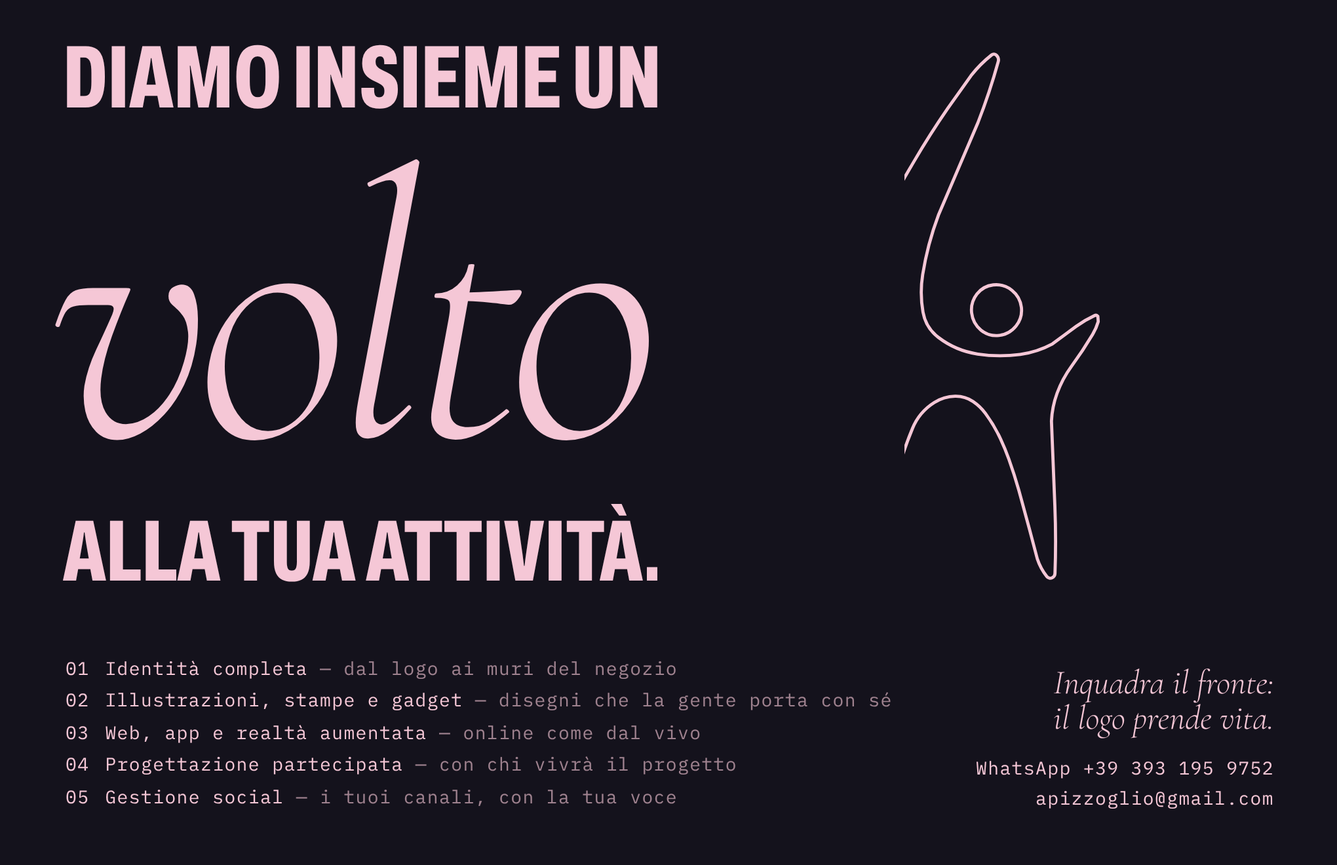
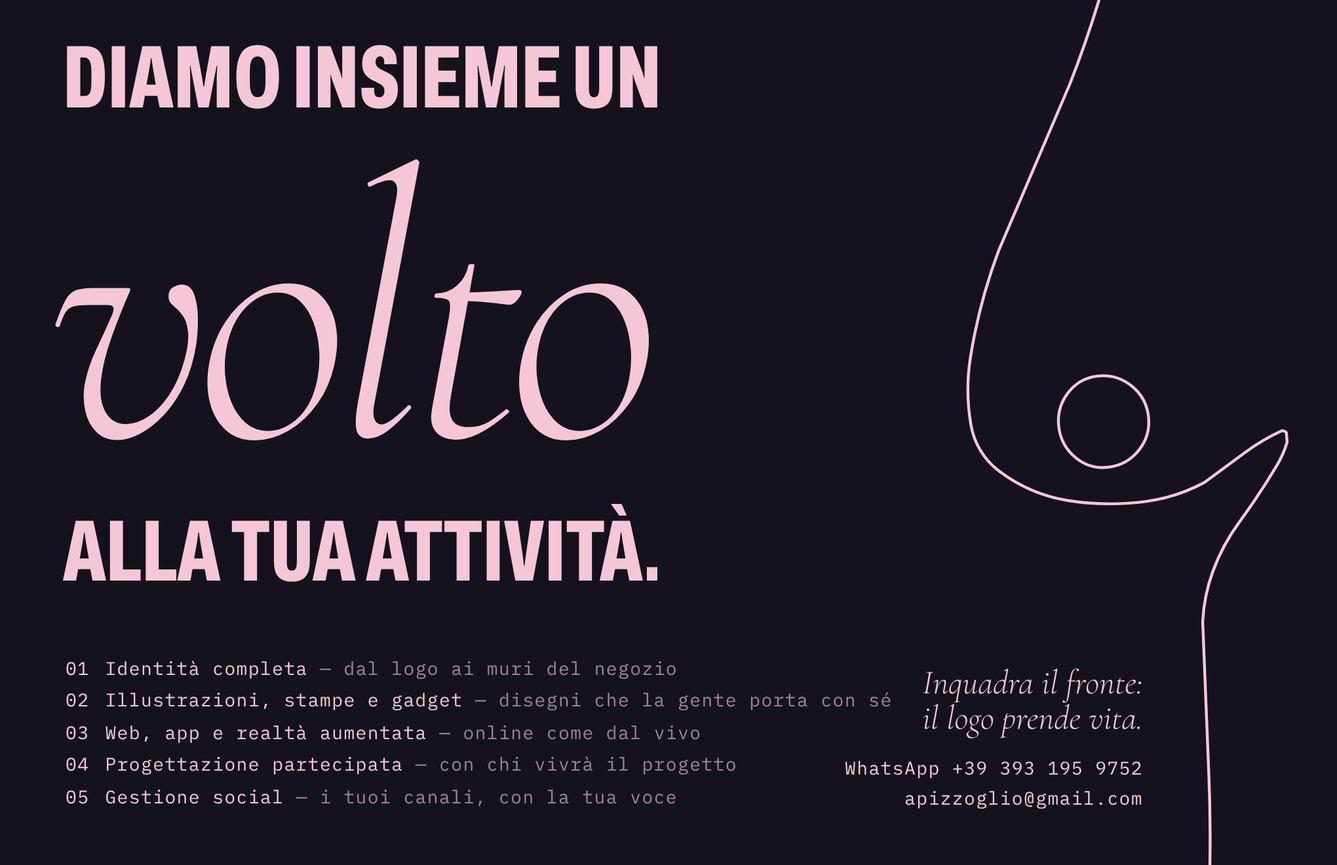
Biglietto, retro: la i aperta e ingrandita, un lato per punta: una linea entra dall'alto, gira intorno al pallino e al braccio ed esce in basso lungo la gamba
Claude-Session: https://claude.ai/code/session_017BM5XjeHCbJ6zegj574eXv

diff --git a/ar-print/biglietto-retro.html b/ar-print/biglietto-retro.html
@@ -15,9 +15,8 @@
   .m { font-family: "IBM Plex Mono", monospace; font-size: 14px; letter-spacing: .05em; line-height: 1.6; }
   .u { text-transform: uppercase; letter-spacing: .2em; font-size: 12px; }
 
-  /* la figura intera, dalla punta della i in alto fino alla punta della gamba: un ritaglio del logo (viewBox) */
-  .det { position: absolute; left: 690px; top: 34px; width: 156px; height: 412px; }
-  .det path { fill: none; stroke: #F5C7D6; stroke-width: 2; stroke-linejoin: round; }
+  .det { position: absolute; left: 0; top: 0; width: 1020px; height: 660px; overflow: hidden; }
+  .det path { fill: none; stroke: #F5C7D6; stroke-width: 1.018; stroke-linejoin: round; stroke-linecap: round; }
   /* il blocco del claim e' alto quanto la figura: la prima riga parte dalla punta della i, l'ultima finisce sulla punta della gamba */
   .claim { position: absolute; left: 48px; top: 34px; height: 412px; display: inline-flex; flex-direction: column; justify-content: space-between; align-items: flex-start; }
   .claim .a { display: block; font-size: 48px; line-height: .74; white-space: nowrap; letter-spacing: 0; }
@@ -26,12 +25,12 @@
   .servizi li { line-height: 1.75; }
   .servizi b { font-weight: 400; margin-right: 12px; }
   .servizi i { font-style: normal; opacity: .62; }
-  .contatti { position: absolute; right: 48px; bottom: 40px; text-align: right; }
+  .contatti { position: absolute; right: 148px; bottom: 40px; text-align: right; }  /* a sinistra della gamba */
   .contatti .c { font-size: 26px; line-height: 1.05; margin-bottom: 14px; }
 
 </style></head>
 <body><div class="card">
-  <svg class="det" viewBox="787 82 130 344" preserveAspectRatio="xMidYMid meet"><path d="M701.23,268.10 A1.96,1.96 0 0 0 700.76,269.62 A632.43,632.43 0 0 0 704.75,297.87 L710.61,332.14 A397.71,397.71 0 0 1 715.07,380.84 A1643.37,1643.37 0 0 1 715.02,480.25 L715.28,506.37 A84.15,84.15 0 0 1 712.88,524.02 A14.16,14.16 0 0 1 709.36,530.42 A4.43,4.43 0 0 1 706.14,531.79 A3.18,3.18 0 0 1 703.52,530.40 L700.27,520.08 L698.40,499.78 L693.93,435.33 L689.78,397.58 A134.04,134.04 0 0 0 686.16,381.05 A4.42,4.42 0 0 0 684.34,378.58 A2.07,2.07 0 0 0 681.58,379.03 A82.86,82.86 0 0 0 672.19,394.07 L661.85,416.68 A56.20,56.20 0 0 1 639.60,438.10 A82.70,82.70 0 0 1 603.38,447.72 A101.61,101.61 0 0 1 574.29,444.40 A143.16,143.16 0 0 1 542.01,431.51 A153.57,153.57 0 0 1 514.39,412.14 A126.16,126.16 0 0 1 494.06,389.31 L482.39,365.51 A264.79,264.79 0 0 0 473.63,347.94 A7.81,7.81 0 0 0 471.41,345.40 A10.92,10.92 0 0 0 469.06,350.11 A55.58,55.58 0 0 0 467.74,361.92 L466.79,380.01 A37.07,37.07 0 0 1 464.30,386.47 A188.62,188.62 0 0 1 456.77,400.14 A143.49,143.49 0 0 0 449.73,413.27 A31.14,31.14 0 0 0 447.49,419.83 A12.49,12.49 0 0 0 447.71,426.09 A254.86,254.86 0 0 0 457.24,452.72 A338.83,338.83 0 0 0 469.01,477.73 A28.15,28.15 0 0 0 473.66,484.20 A13.89,13.89 0 0 0 477.80,487.16 A65.09,65.09 0 0 0 488.14,490.96 A50.41,50.41 0 0 1 497.79,494.70 A10.21,10.21 0 0 1 501.34,497.71 A32.59,32.59 0 0 1 505.21,504.50 A655.02,655.02 0 0 1 517.93,537.14 A368.60,368.60 0 0 1 528.27,570.98 A3.32,3.32 0 0 1 527.34,574.21 A5.03,5.03 0 0 1 521.81,575.15 A94.99,94.99 0 0 1 501.04,562.35 L476.46,539.35 A184.77,184.77 0 0 1 454.38,508.51 A454.13,454.13 0 0 1 428.34,455.05 L410.19,410.80 A395.64,395.64 0 0 0 398.39,386.24 A236.13,236.13 0 0 0 387.81,368.05 A47.19,47.19 0 0 0 372.64,353.25 A47.00,47.00 0 0 0 352.56,346.60 A34.79,34.79 0 0 0 342.06,347.22 A25.67,25.67 0 0 0 333.70,350.63 A24.91,24.91 0 0 0 326.52,357.54 A36.75,36.75 0 0 0 321.38,368.50 A8.04,8.04 0 0 0 321.33,372.65 A1180.09,1180.09 0 0 0 334.80,421.10 A1099.32,1099.32 0 0 0 350.47,469.09 A11.07,11.07 0 0 0 353.20,473.36 L379.12,492.42 A137.79,137.79 0 0 1 397.16,508.57 A4.08,4.08 0 0 1 398.06,512.64 A4.63,4.63 0 0 1 395.23,515.55 A69.72,69.72 0 0 1 379.89,519.16 A127.87,127.87 0 0 0 362.20,522.53 A10.03,10.03 0 0 0 357.81,525.01 L341.54,547.28 A84.48,84.48 0 0 1 328.03,561.51 A2.51,2.51 0 0 1 324.66,561.36 A8.98,8.98 0 0 1 322.20,556.77 A245.02,245.02 0 0 1 318.34,529.85 L314.81,494.18 A87.18,87.18 0 0 0 303.41,467.57 A250.41,250.41 0 0 0 272.96,429.09 A218.57,218.57 0 0 0 234.12,397.18 A63.58,63.58 0 0 0 208.73,387.69 A10.06,10.06 0 0 0 200.55,390.19 A55.41,55.41 0 0 0 188.35,406.12 L175.32,434.83 A673.90,673.90 0 0 1 156.01,465.31 A237.06,237.06 0 0 1 143.30,482.51 A178.86,178.86 0 0 1 120.52,505.86 A100.68,100.68 0 0 1 100.11,519.37 A59.49,59.49 0 0 1 43.71,517.60 A66.85,66.85 0 0 1 10.86,467.61 A81.53,81.53 0 0 1 32.51,402.09 A146.20,146.20 0 0 1 113.89,358.34 L157.14,352.66 A64.98,64.98 0 0 0 179.62,342.98 A34.48,34.48 0 0 0 191.29,329.50 A94.83,94.83 0 0 0 200.43,296.45 A247.40,247.40 0 0 0 199.10,241.09 A374.25,374.25 0 0 0 191.71,202.40 A643.86,643.86 0 0 0 177.35,152.77 L163.94,114.00 A538.04,538.04 0 0 1 154.25,81.62 A3.51,3.51 0 0 1 154.63,78.92 A1.21,1.21 0 0 1 155.76,78.33 A668.24,668.24 0 0 1 185.56,81.30 A548.85,548.85 0 0 0 218.08,84.29 A28.76,28.76 0 0 0 225.54,83.78 A51.37,51.37 0 0 0 241.74,77.51 A72.60,72.60 0 0 0 257.78,64.50 L281.03,33.99 A25.60,25.60 0 0 1 286.83,28.40 A3.01,3.01 0 0 1 289.57,28.04 A3.03,3.03 0 0 1 291.58,30.83 A537.54,537.54 0 0 1 290.62,76.59 L288.28,111.78 A109.60,109.60 0 0 0 289.05,128.24 A35.74,35.74 0 0 0 291.41,137.34 A26.29,26.29 0 0 0 297.47,146.33 A33.04,33.04 0 0 0 307.60,153.04 A54.36,54.36 0 0 0 320.63,156.71 A168.88,168.88 0 0 0 344.43,158.61 L416.61,160.28 A443.70,443.70 0 0 0 464.73,157.63 A90.88,90.88 0 0 0 485.97,152.67 A26.94,26.94 0 0 0 492.75,149.03 A40.65,40.65 0 0 0 499.64,142.57 L509.62,128.29 A98.20,98.20 0 0 1 516.03,119.69 A34.65,34.65 0 0 1 520.54,115.20 A28.36,28.36 0 0 1 528.18,110.68 A29.73,29.73 0 0 1 537.04,108.66 A24.81,24.81 0 0 1 546.84,109.94 A35.18,35.18 0 0 1 557.18,115.58 A50.41,50.41 0 0 1 563.89,121.94 A110.12,110.12 0 0 1 572.24,132.74 L583.06,149.89 A34.29,34.29 0 0 0 588.47,156.27 A2.16,2.16 0 0 0 590.51,156.77 A8.20,8.20 0 0 0 594.63,154.12 A133.66,133.66 0 0 0 606.14,138.05 L627.11,102.02 A332.57,332.57 0 0 1 641.61,79.87 A95.83,95.83 0 0 1 650.69,68.95 A42.66,42.66 0 0 1 664.86,59.25 A12.64,12.64 0 0 1 674.20,59.07 A9.75,9.75 0 0 1 679.57,64.00 A49.68,49.68 0 0 1 684.10,79.81 L685.60,105.05 A291.81,291.81 0 0 0 689.03,124.94 A867.69,867.69 0 0 0 696.82,158.85 L709.15,212.32 L713.77,234.08 A40.67,40.67 0 0 0 719.98,246.03 A14.06,14.06 0 0 0 726.33,250.76 A10.90,10.90 0 0 0 734.29,250.60 A22.79,22.79 0 0 0 743.46,243.65 L753.94,225.63 A2213.64,2213.64 0 0 1 793.01,156.35 A557.58,557.58 0 0 1 814.46,122.68 L829.32,101.75 A78.17,78.17 0 0 1 842.32,88.68 A2.43,2.43 0 0 1 845.56,88.88 A4.19,4.19 0 0 1 846.61,92.94 A397.87,397.87 0 0 1 833.72,131.68 L808.52,190.67 A193.84,193.84 0 0 0 798.49,228.56 A72.37,72.37 0 0 0 798.70,252.51 A25.81,25.81 0 0 0 808.43,268.51 A54.76,54.76 0 0 0 833.54,279.17 A95.45,95.45 0 0 0 860.63,279.37 A60.43,60.43 0 0 0 881.13,272.70 L896.27,261.52 A70.24,70.24 0 0 1 908.03,254.62 A1.67,1.67 0 0 1 910.07,255.13 L910.32,258.47 A35.85,35.85 0 0 1 906.70,266.71 A259.81,259.81 0 0 1 893.31,286.90 A69.32,69.32 0 0 0 884.11,304.09 A60.26,60.26 0 0 0 880.52,321.90 L882.69,375.85 A556.83,556.83 0 0 1 882.77,418.93 A3.20,3.20 0 0 1 881.00,421.67 A2.80,2.80 0 0 1 877.56,420.89 A36.89,36.89 0 0 1 871.50,409.61 L866.60,391.10 L859.71,365.80 A322.56,322.56 0 0 0 853.44,346.25 A149.95,149.95 0 0 0 848.13,333.30 A95.23,95.23 0 0 0 838.54,317.11 A32.71,32.71 0 0 0 830.60,309.45 A19.54,19.54 0 0 0 819.11,306.07 A26.02,26.02 0 0 0 805.88,310.07 A35.47,35.47 0 0 0 792.01,326.54 A261.41,261.41 0 0 0 775.88,382.72 L769.85,430.42 L766.57,467.03 L765.20,507.64 L762.78,527.42 A9.74,9.74 0 0 1 759.79,532.25 A1.98,1.98 0 0 1 757.23,532.29 A11.70,11.70 0 0 1 753.37,526.35 A77.30,77.30 0 0 1 750.65,508.33 L750.67,481.75 A1088.74,1088.74 0 0 1 747.52,389.41 A548.83,548.83 0 0 1 751.99,323.97 L769.37,275.73 A1.89,1.89 0 0 0 767.51,274.72 A6.55,6.55 0 0 0 763.87,276.27 L754.98,286.04 A108.04,108.04 0 0 1 739.32,301.08 A13.30,13.30 0 0 1 732.23,303.86 A16.96,16.96 0 0 1 725.49,303.07 A13.70,13.70 0 0 1 720.27,299.91 A18.29,18.29 0 0 1 717.32,296.21 A53.00,53.00 0 0 1 713.69,289.01 L708.63,276.60 A26.93,26.93 0 0 0 704.77,270.80 A11.01,11.01 0 0 0 701.23,268.10Z M294.05,390.56 L296.00,384.01 L294.08,391.25 L294.54,389.82 A6.31,6.31 0 0 0 294.51,386.33 A35.77,35.77 0 0 0 291.21,378.68 L284.60,368.33 A250.86,250.86 0 0 1 266.53,330.09 A208.72,208.72 0 0 1 256.44,292.86 A198.78,198.78 0 0 1 253.52,262.07 A540.05,540.05 0 0 1 255.08,211.11 L258.94,173.51 A151.53,151.53 0 0 0 258.82,150.66 A61.69,61.69 0 0 0 255.93,136.37 A28.14,28.14 0 0 0 247.29,123.61 A11.49,11.49 0 0 0 237.76,121.12 A16.40,16.40 0 0 0 228.54,126.35 A35.50,35.50 0 0 0 221.01,140.01 A97.53,97.53 0 0 0 217.27,172.23 A431.63,431.63 0 0 0 226.17,239.87 A635.33,635.33 0 0 0 241.25,297.34 A339.91,339.91 0 0 0 256.86,337.90 L273.87,367.38 A184.55,184.55 0 0 0 289.58,388.24 A6.86,6.86 0 0 0 294.05,390.56Z M553.87,268.85 A27.11,27.11 0 0 0 565.84,265.69 A109.33,109.33 0 0 0 586.33,251.59 A132.04,132.04 0 0 1 607.36,236.63 A28.88,28.88 0 0 1 618.85,232.94 A24.60,24.60 0 0 1 629.23,234.13 A114.20,114.20 0 0 1 649.72,243.46 A165.62,165.62 0 0 0 667.17,252.26 A1.65,1.65 0 0 0 669.07,251.82 A5.86,5.86 0 0 0 670.49,248.26 A105.05,105.05 0 0 0 669.99,232.06 L663.75,197.40 A332.11,332.11 0 0 0 658.44,177.72 A146.84,146.84 0 0 0 653.91,164.94 A54.11,54.11 0 0 0 647.08,152.87 A2.88,2.88 0 0 0 644.06,151.81 A11.59,11.59 0 0 0 637.73,156.01 A60.08,60.08 0 0 0 629.33,171.13 L621.32,195.97 L611.62,218.96 A71.27,71.27 0 0 1 604.40,230.17 A21.20,21.20 0 0 1 599.00,235.04 A12.21,12.21 0 0 1 593.14,236.89 A11.63,11.63 0 0 1 587.28,235.65 A21.79,21.79 0 0 1 579.56,229.09 A136.55,136.55 0 0 1 566.55,207.35 L549.46,167.86 A75.83,75.83 0 0 0 539.65,151.82 A2.96,2.96 0 0 0 536.03,151.01 A8.81,8.81 0 0 0 531.77,155.59 A74.50,74.50 0 0 0 527.02,173.14 A143.80,143.80 0 0 0 525.60,191.39 A209.37,209.37 0 0 0 526.44,213.46 A181.35,181.35 0 0 0 530.11,236.76 A84.10,84.10 0 0 0 535.12,252.02 A39.47,39.47 0 0 0 544.91,265.56 A12.87,12.87 0 0 0 553.87,268.85Z M361.27,309.10 L382.44,317.41 A30.51,30.51 0 0 1 388.74,321.66 A219.87,219.87 0 0 1 403.45,335.78 L411.63,348.95 A42.00,42.00 0 0 0 418.61,357.39 A2.95,2.95 0 0 0 421.44,358.07 A4.53,4.53 0 0 0 424.70,354.18 A135.39,135.39 0 0 0 424.73,326.44 L419.06,290.04 A1141.83,1141.83 0 0 0 409.83,251.18 A375.08,375.08 0 0 0 403.48,229.18 A230.88,230.88 0 0 0 386.52,189.63 A38.09,38.09 0 0 0 374.86,176.60 A25.50,25.50 0 0 0 365.39,172.53 A91.52,91.52 0 0 0 345.95,170.67 A131.53,131.53 0 0 0 328.64,172.02 A73.01,73.01 0 0 0 316.05,175.00 A20.19,20.19 0 0 0 305.78,182.73 A16.89,16.89 0 0 0 302.92,194.13 A33.75,33.75 0 0 0 305.18,203.11 A113.02,113.02 0 0 0 312.70,218.30 L346.88,260.77 A282.89,282.89 0 0 1 370.31,294.41 A10.15,10.15 0 0 1 371.42,302.09 A3.98,3.98 0 0 1 370.27,304.02 A12.43,12.43 0 0 1 366.96,306.22 L361.27,309.10Z M593.59,399.31 A34.76,34.76 0 0 0 617.07,388.31 A99.33,99.33 0 0 0 639.15,350.47 A109.05,109.05 0 0 0 643.65,306.58 A34.91,34.91 0 0 0 632.41,284.29 A19.17,19.17 0 0 0 621.77,279.43 A28.31,28.31 0 0 0 607.69,281.36 A37.20,37.20 0 0 0 602.58,283.93 A820.37,820.37 0 0 0 579.84,298.17 A129.08,129.08 0 0 1 561.16,308.23 A37.15,37.15 0 0 1 550.16,311.13 A27.79,27.79 0 0 1 535.24,308.53 A45.59,45.59 0 0 1 519.94,296.60 A35.07,35.07 0 0 1 514.33,287.17 A106.69,106.69 0 0 1 508.85,268.84 L504.05,232.04 L499.45,197.33 A68.33,68.33 0 0 0 494.12,181.95 A16.45,16.45 0 0 0 488.98,175.83 A12.64,12.64 0 0 0 485.03,173.91 A32.62,32.62 0 0 0 478.08,172.72 L466.42,172.57 A353.24,353.24 0 0 0 429.72,172.94 A5.23,5.23 0 0 0 425.81,175.09 A2.91,2.91 0 0 0 425.33,177.44 A51.55,51.55 0 0 0 428.53,187.03 L455.70,264.60 L457.31,266.37 A10.33,10.33 0 0 0 463.34,268.27 A3.84,3.84 0 0 0 466.66,266.31 A10.97,10.97 0 0 0 467.91,262.83 A82.50,82.50 0 0 0 469.06,252.73 L470.31,236.83 A12.73,12.73 0 0 1 473.07,231.08 A3.58,3.58 0 0 1 476.22,229.83 A8.23,8.23 0 0 1 480.42,231.58 A20.18,20.18 0 0 1 485.11,236.94 A73.04,73.04 0 0 1 490.97,249.13 A159.77,159.77 0 0 1 496.75,268.27 L504.59,304.07 A158.45,158.45 0 0 0 522.74,347.29 A148.36,148.36 0 0 0 551.95,382.00 A82.87,82.87 0 0 0 574.62,396.07 A43.14,43.14 0 0 0 593.59,399.31Z M472.88,218.36 A12.78,12.78 0 0 1 463.23,215.23 A13.79,13.79 0 0 1 458.58,205.77 A14.53,14.53 0 0 1 461.89,195.56 A13.04,13.04 0 0 1 470.91,190.88 A13.58,13.58 0 0 1 485.52,203.44 A13.98,13.98 0 0 1 472.88,218.36Z M847.11,267.33 A15.33,15.33 0 0 1 835.64,263.93 A16.67,16.67 0 0 1 829.68,252.96 A16.54,16.54 0 0 1 833.02,240.96 A15.29,15.29 0 0 1 843.46,235.11 A16.25,16.25 0 0 1 861.37,249.44 A16.17,16.17 0 0 1 847.11,267.33Z M306.27,325.67 A4.11,4.11 0 0 0 308.46,324.59 A102.28,102.28 0 0 0 316.77,315.69 A100.56,100.56 0 0 0 324.57,304.86 A6.16,6.16 0 0 0 325.50,301.69 A8.27,8.27 0 0 0 324.29,297.24 A227.44,227.44 0 0 0 310.60,277.32 L290.84,253.45 A4.64,4.64 0 0 0 288.56,252.10 A1.19,1.19 0 0 0 287.30,252.57 L286.20,259.02 L289.57,284.90 L297.44,313.12 A52.09,52.09 0 0 0 303.49,324.49 A2.86,2.86 0 0 0 306.27,325.67Z M231.54,366.69 L230.38,359.03 L225.83,344.44 L219.79,333.30 L216.82,332.26 L214.20,335.98 L209.57,347.59 A42.20,42.20 0 0 0 207.60,355.67 A8.69,8.69 0 0 0 207.89,359.43 A4.04,4.04 0 0 0 209.76,361.77 A43.16,43.16 0 0 0 218.78,365.61 A48.49,48.49 0 0 0 228.46,367.43 A5.02,5.02 0 0 0 231.54,366.69Z M69.84,494.07 A56.75,56.75 0 0 0 93.68,487.43 A102.21,102.21 0 0 0 120.02,467.21 A144.26,144.26 0 0 0 132.26,452.25 A605.46,605.46 0 0 0 154.17,419.26 L165.33,401.74 A52.71,52.71 0 0 0 170.53,388.36 A6.52,6.52 0 0 0 169.71,383.37 A8.06,8.06 0 0 0 165.54,380.05 A43.62,43.62 0 0 0 153.38,377.67 L134.79,377.90 A113.68,113.68 0 0 0 78.34,392.25 A86.89,86.89 0 0 0 43.06,428.97 A56.52,56.52 0 0 0 41.24,475.96 A29.29,29.29 0 0 0 69.84,494.07Z"/></svg>
+  <svg class="det" viewBox="0 0 1020 660"><g transform="translate(-984.56 -220.96) scale(2.1602)"><path d="M 842.7491491870207,88.40792444867843 A 2.43,2.43 0.0 0,1 845.56,88.88 A 4.19,4.19 0.0 0,1 846.61,92.94 A 397.87,397.87 0.0 0,1 833.72,131.68 L 808.52,190.67 A 193.84,193.84 0.0 0,0 798.49,228.56 A 72.37,72.37 0.0 0,0 798.7,252.51 A 25.81,25.81 0.0 0,0 808.43,268.51 A 54.76,54.76 0.0 0,0 833.54,279.17 A 95.45,95.45 0.0 0,0 860.63,279.37 A 60.43,60.43 0.0 0,0 881.13,272.7 L 896.27,261.52 A 70.24,70.24 0.0 0,1 908.03,254.62 A 1.67,1.67 0.0 0,1 910.07,255.13 L 910.32,258.47 A 35.85,35.85 0.0 0,1 906.7,266.71 A 259.81,259.81 0.0 0,1 893.31,286.9 A 69.32,69.32 0.0 0,0 884.11,304.09 A 60.26,60.26 0.0 0,0 880.52,321.9 L 882.69,375.85 A 556.83,556.83 0.0 0,1 882.77,418.93 A 3.2,3.2 0.0 0,1 881.0,421.67 M 881.0,421.66999999999996 A 2.8,2.8 0.0 0,1 878.6176970983715,421.71508553433273"/><path d="M 847.11,267.33 A 15.33,15.33 0.0 0,1 835.64,263.93 A 16.67,16.67 0.0 0,1 829.68,252.96 A 16.54,16.54 0.0 0,1 833.02,240.96 A 15.29,15.29 0.0 0,1 843.46,235.11 A 16.25,16.25 0.0 0,1 861.37,249.44 A 16.17,16.17 0.0 0,1 847.11,267.33"/></g></svg>
   <h1 class="claim"><span class="a" data-fit="#volto">Diamo insieme un</span><span class="volto c" id="volto">volto</span><span class="a" data-fit="#volto">alla tua attività.</span></h1>
   <ol class="servizi m"><li><b>01</b>Identità completa <i>— dal logo ai muri del negozio</i></li><li><b>02</b>Illustrazioni, stampe e gadget <i>— disegni che la gente porta con sé</i></li><li><b>03</b>Web, app e realtà aumentata <i>— online come dal vivo</i></li><li><b>04</b>Progettazione partecipata <i>— con chi vivrà il progetto</i></li><li><b>05</b>Gestione social <i>— i tuoi canali, con la tua voce</i></li></ol>
   <div class="contatti"><p class="c">Inquadra il fronte:<br>il logo prende vita.</p><div class="m"><p>WhatsApp +39 393 195 9752</p><p>apizzoglio@gmail.com</p></div></div>

diff --git a/ar-print/varianti/retro-bc/biglietto-retro.html b/ar-print/varianti/retro-bc/biglietto-retro.html
@@ -15,9 +15,8 @@
   .m { font-family: "IBM Plex Mono", monospace; font-size: 14px; letter-spacing: .05em; line-height: 1.6; }
   .u { text-transform: uppercase; letter-spacing: .2em; font-size: 12px; }
 
-  /* la figura intera, dalla punta della i in alto fino alla punta della gamba: un ritaglio del logo (viewBox) */
-  .det { position: absolute; left: 690px; top: 34px; width: 156px; height: 412px; }
-  .det path { fill: none; stroke: #F5C7D6; stroke-width: 2; stroke-linejoin: round; }
+  .det { position: absolute; left: 0; top: 0; width: 1020px; height: 660px; overflow: hidden; }
+  .det path { fill: none; stroke: #F5C7D6; stroke-width: 1.018; stroke-linejoin: round; stroke-linecap: round; }
   /* il blocco del claim e' alto quanto la figura: la prima riga parte dalla punta della i, l'ultima finisce sulla punta della gamba */
   .claim { position: absolute; left: 48px; top: 34px; height: 412px; display: inline-flex; flex-direction: column; justify-content: space-between; align-items: flex-start; }
   .claim .a { display: block; font-size: 48px; line-height: .74; white-space: nowrap; letter-spacing: 0; }
@@ -26,12 +25,12 @@
   .servizi li { line-height: 1.75; }
   .servizi b { font-weight: 400; margin-right: 12px; }
   .servizi i { font-style: normal; opacity: .62; }
-  .contatti { position: absolute; right: 48px; bottom: 40px; text-align: right; }
+  .contatti { position: absolute; right: 148px; bottom: 40px; text-align: right; }  /* a sinistra della gamba */
   .contatti .c { font-size: 26px; line-height: 1.05; margin-bottom: 14px; }
 
 </style></head>
 <body><div class="card">
-  <svg class="det" viewBox="787 82 130 344" preserveAspectRatio="xMidYMid meet"><path d="M701.23,268.10 A1.96,1.96 0 0 0 700.76,269.62 A632.43,632.43 0 0 0 704.75,297.87 L710.61,332.14 A397.71,397.71 0 0 1 715.07,380.84 A1643.37,1643.37 0 0 1 715.02,480.25 L715.28,506.37 A84.15,84.15 0 0 1 712.88,524.02 A14.16,14.16 0 0 1 709.36,530.42 A4.43,4.43 0 0 1 706.14,531.79 A3.18,3.18 0 0 1 703.52,530.40 L700.27,520.08 L698.40,499.78 L693.93,435.33 L689.78,397.58 A134.04,134.04 0 0 0 686.16,381.05 A4.42,4.42 0 0 0 684.34,378.58 A2.07,2.07 0 0 0 681.58,379.03 A82.86,82.86 0 0 0 672.19,394.07 L661.85,416.68 A56.20,56.20 0 0 1 639.60,438.10 A82.70,82.70 0 0 1 603.38,447.72 A101.61,101.61 0 0 1 574.29,444.40 A143.16,143.16 0 0 1 542.01,431.51 A153.57,153.57 0 0 1 514.39,412.14 A126.16,126.16 0 0 1 494.06,389.31 L482.39,365.51 A264.79,264.79 0 0 0 473.63,347.94 A7.81,7.81 0 0 0 471.41,345.40 A10.92,10.92 0 0 0 469.06,350.11 A55.58,55.58 0 0 0 467.74,361.92 L466.79,380.01 A37.07,37.07 0 0 1 464.30,386.47 A188.62,188.62 0 0 1 456.77,400.14 A143.49,143.49 0 0 0 449.73,413.27 A31.14,31.14 0 0 0 447.49,419.83 A12.49,12.49 0 0 0 447.71,426.09 A254.86,254.86 0 0 0 457.24,452.72 A338.83,338.83 0 0 0 469.01,477.73 A28.15,28.15 0 0 0 473.66,484.20 A13.89,13.89 0 0 0 477.80,487.16 A65.09,65.09 0 0 0 488.14,490.96 A50.41,50.41 0 0 1 497.79,494.70 A10.21,10.21 0 0 1 501.34,497.71 A32.59,32.59 0 0 1 505.21,504.50 A655.02,655.02 0 0 1 517.93,537.14 A368.60,368.60 0 0 1 528.27,570.98 A3.32,3.32 0 0 1 527.34,574.21 A5.03,5.03 0 0 1 521.81,575.15 A94.99,94.99 0 0 1 501.04,562.35 L476.46,539.35 A184.77,184.77 0 0 1 454.38,508.51 A454.13,454.13 0 0 1 428.34,455.05 L410.19,410.80 A395.64,395.64 0 0 0 398.39,386.24 A236.13,236.13 0 0 0 387.81,368.05 A47.19,47.19 0 0 0 372.64,353.25 A47.00,47.00 0 0 0 352.56,346.60 A34.79,34.79 0 0 0 342.06,347.22 A25.67,25.67 0 0 0 333.70,350.63 A24.91,24.91 0 0 0 326.52,357.54 A36.75,36.75 0 0 0 321.38,368.50 A8.04,8.04 0 0 0 321.33,372.65 A1180.09,1180.09 0 0 0 334.80,421.10 A1099.32,1099.32 0 0 0 350.47,469.09 A11.07,11.07 0 0 0 353.20,473.36 L379.12,492.42 A137.79,137.79 0 0 1 397.16,508.57 A4.08,4.08 0 0 1 398.06,512.64 A4.63,4.63 0 0 1 395.23,515.55 A69.72,69.72 0 0 1 379.89,519.16 A127.87,127.87 0 0 0 362.20,522.53 A10.03,10.03 0 0 0 357.81,525.01 L341.54,547.28 A84.48,84.48 0 0 1 328.03,561.51 A2.51,2.51 0 0 1 324.66,561.36 A8.98,8.98 0 0 1 322.20,556.77 A245.02,245.02 0 0 1 318.34,529.85 L314.81,494.18 A87.18,87.18 0 0 0 303.41,467.57 A250.41,250.41 0 0 0 272.96,429.09 A218.57,218.57 0 0 0 234.12,397.18 A63.58,63.58 0 0 0 208.73,387.69 A10.06,10.06 0 0 0 200.55,390.19 A55.41,55.41 0 0 0 188.35,406.12 L175.32,434.83 A673.90,673.90 0 0 1 156.01,465.31 A237.06,237.06 0 0 1 143.30,482.51 A178.86,178.86 0 0 1 120.52,505.86 A100.68,100.68 0 0 1 100.11,519.37 A59.49,59.49 0 0 1 43.71,517.60 A66.85,66.85 0 0 1 10.86,467.61 A81.53,81.53 0 0 1 32.51,402.09 A146.20,146.20 0 0 1 113.89,358.34 L157.14,352.66 A64.98,64.98 0 0 0 179.62,342.98 A34.48,34.48 0 0 0 191.29,329.50 A94.83,94.83 0 0 0 200.43,296.45 A247.40,247.40 0 0 0 199.10,241.09 A374.25,374.25 0 0 0 191.71,202.40 A643.86,643.86 0 0 0 177.35,152.77 L163.94,114.00 A538.04,538.04 0 0 1 154.25,81.62 A3.51,3.51 0 0 1 154.63,78.92 A1.21,1.21 0 0 1 155.76,78.33 A668.24,668.24 0 0 1 185.56,81.30 A548.85,548.85 0 0 0 218.08,84.29 A28.76,28.76 0 0 0 225.54,83.78 A51.37,51.37 0 0 0 241.74,77.51 A72.60,72.60 0 0 0 257.78,64.50 L281.03,33.99 A25.60,25.60 0 0 1 286.83,28.40 A3.01,3.01 0 0 1 289.57,28.04 A3.03,3.03 0 0 1 291.58,30.83 A537.54,537.54 0 0 1 290.62,76.59 L288.28,111.78 A109.60,109.60 0 0 0 289.05,128.24 A35.74,35.74 0 0 0 291.41,137.34 A26.29,26.29 0 0 0 297.47,146.33 A33.04,33.04 0 0 0 307.60,153.04 A54.36,54.36 0 0 0 320.63,156.71 A168.88,168.88 0 0 0 344.43,158.61 L416.61,160.28 A443.70,443.70 0 0 0 464.73,157.63 A90.88,90.88 0 0 0 485.97,152.67 A26.94,26.94 0 0 0 492.75,149.03 A40.65,40.65 0 0 0 499.64,142.57 L509.62,128.29 A98.20,98.20 0 0 1 516.03,119.69 A34.65,34.65 0 0 1 520.54,115.20 A28.36,28.36 0 0 1 528.18,110.68 A29.73,29.73 0 0 1 537.04,108.66 A24.81,24.81 0 0 1 546.84,109.94 A35.18,35.18 0 0 1 557.18,115.58 A50.41,50.41 0 0 1 563.89,121.94 A110.12,110.12 0 0 1 572.24,132.74 L583.06,149.89 A34.29,34.29 0 0 0 588.47,156.27 A2.16,2.16 0 0 0 590.51,156.77 A8.20,8.20 0 0 0 594.63,154.12 A133.66,133.66 0 0 0 606.14,138.05 L627.11,102.02 A332.57,332.57 0 0 1 641.61,79.87 A95.83,95.83 0 0 1 650.69,68.95 A42.66,42.66 0 0 1 664.86,59.25 A12.64,12.64 0 0 1 674.20,59.07 A9.75,9.75 0 0 1 679.57,64.00 A49.68,49.68 0 0 1 684.10,79.81 L685.60,105.05 A291.81,291.81 0 0 0 689.03,124.94 A867.69,867.69 0 0 0 696.82,158.85 L709.15,212.32 L713.77,234.08 A40.67,40.67 0 0 0 719.98,246.03 A14.06,14.06 0 0 0 726.33,250.76 A10.90,10.90 0 0 0 734.29,250.60 A22.79,22.79 0 0 0 743.46,243.65 L753.94,225.63 A2213.64,2213.64 0 0 1 793.01,156.35 A557.58,557.58 0 0 1 814.46,122.68 L829.32,101.75 A78.17,78.17 0 0 1 842.32,88.68 A2.43,2.43 0 0 1 845.56,88.88 A4.19,4.19 0 0 1 846.61,92.94 A397.87,397.87 0 0 1 833.72,131.68 L808.52,190.67 A193.84,193.84 0 0 0 798.49,228.56 A72.37,72.37 0 0 0 798.70,252.51 A25.81,25.81 0 0 0 808.43,268.51 A54.76,54.76 0 0 0 833.54,279.17 A95.45,95.45 0 0 0 860.63,279.37 A60.43,60.43 0 0 0 881.13,272.70 L896.27,261.52 A70.24,70.24 0 0 1 908.03,254.62 A1.67,1.67 0 0 1 910.07,255.13 L910.32,258.47 A35.85,35.85 0 0 1 906.70,266.71 A259.81,259.81 0 0 1 893.31,286.90 A69.32,69.32 0 0 0 884.11,304.09 A60.26,60.26 0 0 0 880.52,321.90 L882.69,375.85 A556.83,556.83 0 0 1 882.77,418.93 A3.20,3.20 0 0 1 881.00,421.67 A2.80,2.80 0 0 1 877.56,420.89 A36.89,36.89 0 0 1 871.50,409.61 L866.60,391.10 L859.71,365.80 A322.56,322.56 0 0 0 853.44,346.25 A149.95,149.95 0 0 0 848.13,333.30 A95.23,95.23 0 0 0 838.54,317.11 A32.71,32.71 0 0 0 830.60,309.45 A19.54,19.54 0 0 0 819.11,306.07 A26.02,26.02 0 0 0 805.88,310.07 A35.47,35.47 0 0 0 792.01,326.54 A261.41,261.41 0 0 0 775.88,382.72 L769.85,430.42 L766.57,467.03 L765.20,507.64 L762.78,527.42 A9.74,9.74 0 0 1 759.79,532.25 A1.98,1.98 0 0 1 757.23,532.29 A11.70,11.70 0 0 1 753.37,526.35 A77.30,77.30 0 0 1 750.65,508.33 L750.67,481.75 A1088.74,1088.74 0 0 1 747.52,389.41 A548.83,548.83 0 0 1 751.99,323.97 L769.37,275.73 A1.89,1.89 0 0 0 767.51,274.72 A6.55,6.55 0 0 0 763.87,276.27 L754.98,286.04 A108.04,108.04 0 0 1 739.32,301.08 A13.30,13.30 0 0 1 732.23,303.86 A16.96,16.96 0 0 1 725.49,303.07 A13.70,13.70 0 0 1 720.27,299.91 A18.29,18.29 0 0 1 717.32,296.21 A53.00,53.00 0 0 1 713.69,289.01 L708.63,276.60 A26.93,26.93 0 0 0 704.77,270.80 A11.01,11.01 0 0 0 701.23,268.10Z M294.05,390.56 L296.00,384.01 L294.08,391.25 L294.54,389.82 A6.31,6.31 0 0 0 294.51,386.33 A35.77,35.77 0 0 0 291.21,378.68 L284.60,368.33 A250.86,250.86 0 0 1 266.53,330.09 A208.72,208.72 0 0 1 256.44,292.86 A198.78,198.78 0 0 1 253.52,262.07 A540.05,540.05 0 0 1 255.08,211.11 L258.94,173.51 A151.53,151.53 0 0 0 258.82,150.66 A61.69,61.69 0 0 0 255.93,136.37 A28.14,28.14 0 0 0 247.29,123.61 A11.49,11.49 0 0 0 237.76,121.12 A16.40,16.40 0 0 0 228.54,126.35 A35.50,35.50 0 0 0 221.01,140.01 A97.53,97.53 0 0 0 217.27,172.23 A431.63,431.63 0 0 0 226.17,239.87 A635.33,635.33 0 0 0 241.25,297.34 A339.91,339.91 0 0 0 256.86,337.90 L273.87,367.38 A184.55,184.55 0 0 0 289.58,388.24 A6.86,6.86 0 0 0 294.05,390.56Z M553.87,268.85 A27.11,27.11 0 0 0 565.84,265.69 A109.33,109.33 0 0 0 586.33,251.59 A132.04,132.04 0 0 1 607.36,236.63 A28.88,28.88 0 0 1 618.85,232.94 A24.60,24.60 0 0 1 629.23,234.13 A114.20,114.20 0 0 1 649.72,243.46 A165.62,165.62 0 0 0 667.17,252.26 A1.65,1.65 0 0 0 669.07,251.82 A5.86,5.86 0 0 0 670.49,248.26 A105.05,105.05 0 0 0 669.99,232.06 L663.75,197.40 A332.11,332.11 0 0 0 658.44,177.72 A146.84,146.84 0 0 0 653.91,164.94 A54.11,54.11 0 0 0 647.08,152.87 A2.88,2.88 0 0 0 644.06,151.81 A11.59,11.59 0 0 0 637.73,156.01 A60.08,60.08 0 0 0 629.33,171.13 L621.32,195.97 L611.62,218.96 A71.27,71.27 0 0 1 604.40,230.17 A21.20,21.20 0 0 1 599.00,235.04 A12.21,12.21 0 0 1 593.14,236.89 A11.63,11.63 0 0 1 587.28,235.65 A21.79,21.79 0 0 1 579.56,229.09 A136.55,136.55 0 0 1 566.55,207.35 L549.46,167.86 A75.83,75.83 0 0 0 539.65,151.82 A2.96,2.96 0 0 0 536.03,151.01 A8.81,8.81 0 0 0 531.77,155.59 A74.50,74.50 0 0 0 527.02,173.14 A143.80,143.80 0 0 0 525.60,191.39 A209.37,209.37 0 0 0 526.44,213.46 A181.35,181.35 0 0 0 530.11,236.76 A84.10,84.10 0 0 0 535.12,252.02 A39.47,39.47 0 0 0 544.91,265.56 A12.87,12.87 0 0 0 553.87,268.85Z M361.27,309.10 L382.44,317.41 A30.51,30.51 0 0 1 388.74,321.66 A219.87,219.87 0 0 1 403.45,335.78 L411.63,348.95 A42.00,42.00 0 0 0 418.61,357.39 A2.95,2.95 0 0 0 421.44,358.07 A4.53,4.53 0 0 0 424.70,354.18 A135.39,135.39 0 0 0 424.73,326.44 L419.06,290.04 A1141.83,1141.83 0 0 0 409.83,251.18 A375.08,375.08 0 0 0 403.48,229.18 A230.88,230.88 0 0 0 386.52,189.63 A38.09,38.09 0 0 0 374.86,176.60 A25.50,25.50 0 0 0 365.39,172.53 A91.52,91.52 0 0 0 345.95,170.67 A131.53,131.53 0 0 0 328.64,172.02 A73.01,73.01 0 0 0 316.05,175.00 A20.19,20.19 0 0 0 305.78,182.73 A16.89,16.89 0 0 0 302.92,194.13 A33.75,33.75 0 0 0 305.18,203.11 A113.02,113.02 0 0 0 312.70,218.30 L346.88,260.77 A282.89,282.89 0 0 1 370.31,294.41 A10.15,10.15 0 0 1 371.42,302.09 A3.98,3.98 0 0 1 370.27,304.02 A12.43,12.43 0 0 1 366.96,306.22 L361.27,309.10Z M593.59,399.31 A34.76,34.76 0 0 0 617.07,388.31 A99.33,99.33 0 0 0 639.15,350.47 A109.05,109.05 0 0 0 643.65,306.58 A34.91,34.91 0 0 0 632.41,284.29 A19.17,19.17 0 0 0 621.77,279.43 A28.31,28.31 0 0 0 607.69,281.36 A37.20,37.20 0 0 0 602.58,283.93 A820.37,820.37 0 0 0 579.84,298.17 A129.08,129.08 0 0 1 561.16,308.23 A37.15,37.15 0 0 1 550.16,311.13 A27.79,27.79 0 0 1 535.24,308.53 A45.59,45.59 0 0 1 519.94,296.60 A35.07,35.07 0 0 1 514.33,287.17 A106.69,106.69 0 0 1 508.85,268.84 L504.05,232.04 L499.45,197.33 A68.33,68.33 0 0 0 494.12,181.95 A16.45,16.45 0 0 0 488.98,175.83 A12.64,12.64 0 0 0 485.03,173.91 A32.62,32.62 0 0 0 478.08,172.72 L466.42,172.57 A353.24,353.24 0 0 0 429.72,172.94 A5.23,5.23 0 0 0 425.81,175.09 A2.91,2.91 0 0 0 425.33,177.44 A51.55,51.55 0 0 0 428.53,187.03 L455.70,264.60 L457.31,266.37 A10.33,10.33 0 0 0 463.34,268.27 A3.84,3.84 0 0 0 466.66,266.31 A10.97,10.97 0 0 0 467.91,262.83 A82.50,82.50 0 0 0 469.06,252.73 L470.31,236.83 A12.73,12.73 0 0 1 473.07,231.08 A3.58,3.58 0 0 1 476.22,229.83 A8.23,8.23 0 0 1 480.42,231.58 A20.18,20.18 0 0 1 485.11,236.94 A73.04,73.04 0 0 1 490.97,249.13 A159.77,159.77 0 0 1 496.75,268.27 L504.59,304.07 A158.45,158.45 0 0 0 522.74,347.29 A148.36,148.36 0 0 0 551.95,382.00 A82.87,82.87 0 0 0 574.62,396.07 A43.14,43.14 0 0 0 593.59,399.31Z M472.88,218.36 A12.78,12.78 0 0 1 463.23,215.23 A13.79,13.79 0 0 1 458.58,205.77 A14.53,14.53 0 0 1 461.89,195.56 A13.04,13.04 0 0 1 470.91,190.88 A13.58,13.58 0 0 1 485.52,203.44 A13.98,13.98 0 0 1 472.88,218.36Z M847.11,267.33 A15.33,15.33 0 0 1 835.64,263.93 A16.67,16.67 0 0 1 829.68,252.96 A16.54,16.54 0 0 1 833.02,240.96 A15.29,15.29 0 0 1 843.46,235.11 A16.25,16.25 0 0 1 861.37,249.44 A16.17,16.17 0 0 1 847.11,267.33Z M306.27,325.67 A4.11,4.11 0 0 0 308.46,324.59 A102.28,102.28 0 0 0 316.77,315.69 A100.56,100.56 0 0 0 324.57,304.86 A6.16,6.16 0 0 0 325.50,301.69 A8.27,8.27 0 0 0 324.29,297.24 A227.44,227.44 0 0 0 310.60,277.32 L290.84,253.45 A4.64,4.64 0 0 0 288.56,252.10 A1.19,1.19 0 0 0 287.30,252.57 L286.20,259.02 L289.57,284.90 L297.44,313.12 A52.09,52.09 0 0 0 303.49,324.49 A2.86,2.86 0 0 0 306.27,325.67Z M231.54,366.69 L230.38,359.03 L225.83,344.44 L219.79,333.30 L216.82,332.26 L214.20,335.98 L209.57,347.59 A42.20,42.20 0 0 0 207.60,355.67 A8.69,8.69 0 0 0 207.89,359.43 A4.04,4.04 0 0 0 209.76,361.77 A43.16,43.16 0 0 0 218.78,365.61 A48.49,48.49 0 0 0 228.46,367.43 A5.02,5.02 0 0 0 231.54,366.69Z M69.84,494.07 A56.75,56.75 0 0 0 93.68,487.43 A102.21,102.21 0 0 0 120.02,467.21 A144.26,144.26 0 0 0 132.26,452.25 A605.46,605.46 0 0 0 154.17,419.26 L165.33,401.74 A52.71,52.71 0 0 0 170.53,388.36 A6.52,6.52 0 0 0 169.71,383.37 A8.06,8.06 0 0 0 165.54,380.05 A43.62,43.62 0 0 0 153.38,377.67 L134.79,377.90 A113.68,113.68 0 0 0 78.34,392.25 A86.89,86.89 0 0 0 43.06,428.97 A56.52,56.52 0 0 0 41.24,475.96 A29.29,29.29 0 0 0 69.84,494.07Z"/></svg>
+  <svg class="det" viewBox="0 0 1020 660"><g transform="translate(-984.56 -220.96) scale(2.1602)"><path d="M 842.7491491870207,88.40792444867843 A 2.43,2.43 0.0 0,1 845.56,88.88 A 4.19,4.19 0.0 0,1 846.61,92.94 A 397.87,397.87 0.0 0,1 833.72,131.68 L 808.52,190.67 A 193.84,193.84 0.0 0,0 798.49,228.56 A 72.37,72.37 0.0 0,0 798.7,252.51 A 25.81,25.81 0.0 0,0 808.43,268.51 A 54.76,54.76 0.0 0,0 833.54,279.17 A 95.45,95.45 0.0 0,0 860.63,279.37 A 60.43,60.43 0.0 0,0 881.13,272.7 L 896.27,261.52 A 70.24,70.24 0.0 0,1 908.03,254.62 A 1.67,1.67 0.0 0,1 910.07,255.13 L 910.32,258.47 A 35.85,35.85 0.0 0,1 906.7,266.71 A 259.81,259.81 0.0 0,1 893.31,286.9 A 69.32,69.32 0.0 0,0 884.11,304.09 A 60.26,60.26 0.0 0,0 880.52,321.9 L 882.69,375.85 A 556.83,556.83 0.0 0,1 882.77,418.93 A 3.2,3.2 0.0 0,1 881.0,421.67 M 881.0,421.66999999999996 A 2.8,2.8 0.0 0,1 878.6176970983715,421.71508553433273"/><path d="M 847.11,267.33 A 15.33,15.33 0.0 0,1 835.64,263.93 A 16.67,16.67 0.0 0,1 829.68,252.96 A 16.54,16.54 0.0 0,1 833.02,240.96 A 15.29,15.29 0.0 0,1 843.46,235.11 A 16.25,16.25 0.0 0,1 861.37,249.44 A 16.17,16.17 0.0 0,1 847.11,267.33"/></g></svg>
   <h1 class="claim"><span class="a" data-fit="#volto">Diamo insieme un</span><span class="volto c" id="volto">volto</span><span class="a" data-fit="#volto">alla tua attività.</span></h1>
   <ol class="servizi m"><li><b>01</b>Identità completa <i>— dal logo ai muri del negozio</i></li><li><b>02</b>Illustrazioni, stampe e gadget <i>— disegni che la gente porta con sé</i></li><li><b>03</b>Web, app e realtà aumentata <i>— online come dal vivo</i></li><li><b>04</b>Progettazione partecipata <i>— con chi vivrà il progetto</i></li><li><b>05</b>Gestione social <i>— i tuoi canali, con la tua voce</i></li></ol>
   <div class="contatti"><p class="c">Inquadra il fronte:<br>il logo prende vita.</p><div class="m"><p>WhatsApp +39 393 195 9752</p><p>apizzoglio@gmail.com</p></div></div>

diff --git a/scripts/biglietto-retri.py b/scripts/biglietto-retri.py
@@ -131,16 +131,19 @@ scrivi('retro-fusione', NOTTE, ROSA, f'''
   <div class="linea" style="bottom:86px"></div>
   <div class="piede"><p class="c">Inquadra il fronte: il logo prende vita.</p><div class="m"><p>WhatsApp +39 393 195 9752</p><p>apizzoglio@gmail.com</p></div></div>''')
 # B + C · il nero e la figura della C, volto enorme della B; servizi in mono col loro dettaglio
-# il ritaglio della figura nel disegno del logo (scripts/logo-forma.svg, 1000 x 603): dalla punta della i (847, 88)
-# alla punta della sua gamba (882, 420); la gamba della m resta fuori
-VX, VY, VW, VH = 787, 82, 130, 344
-VB = f'{VX} {VY} {VW} {VH}'
-TOP, H = 34, 412                 # la figura, e il claim accanto, dall'alto fino sopra i servizi
-FW = round(H * VW / VH); FX = 690
+# la figura della i, aperta: del contorno del logo si tiene un solo lato per ciascuna punta (il lato destro della
+# punta in alto e quello destro della gamba), piu' il pallino. Ingrandita, le due punte escono dal biglietto e
+# restano due linee che spariscono fuori, una in alto e una in basso.
+from svgpathtools import parse_path
+_P = parse_path(D); _sp = _P.continuous_subpaths()
+FIG = _sp[0].cropped(0.75455, 0.8511).d()          # dalla punta della i (842, 88) alla punta della gamba (879, 422)
+TESTA = _sp[6].d()                                  # il pallino
+SC = 720 / (421.7 - 88.4)                           # punta in alto a -30 px, punta in basso a 690 px: fuori di 30 px
+FTX, FTY = 978 - 908.5 * SC, -30 - 88.4 * SC        # la punta del braccio resta dentro, a 978 px
+TOP, H = 34, 412
 scrivi('retro-bc', NOTTE, ROSA, f'''
-  /* la figura intera, dalla punta della i in alto fino alla punta della gamba: un ritaglio del logo (viewBox) */
-  .det {{ position: absolute; left: {FX}px; top: {TOP}px; width: {FW}px; height: {H}px; }}
-  .det path {{ fill: none; stroke: {ROSA}; stroke-width: 2; stroke-linejoin: round; }}
+  .det {{ position: absolute; left: 0; top: 0; width: 1020px; height: 660px; overflow: hidden; }}
+  .det path {{ fill: none; stroke: {ROSA}; stroke-width: {2.2 / SC:.3f}; stroke-linejoin: round; stroke-linecap: round; }}
   /* il blocco del claim e' alto quanto la figura: la prima riga parte dalla punta della i, l'ultima finisce sulla punta della gamba */
   .claim {{ position: absolute; left: 48px; top: {TOP}px; height: {H}px; display: inline-flex; flex-direction: column; justify-content: space-between; align-items: flex-start; }}
   .claim .a {{ display: block; font-size: 48px; line-height: .74; white-space: nowrap; letter-spacing: 0; }}
@@ -149,9 +152,9 @@ scrivi('retro-bc', NOTTE, ROSA, f'''
   .servizi li {{ line-height: 1.75; }}
   .servizi b {{ font-weight: 400; margin-right: 12px; }}
   .servizi i {{ font-style: normal; opacity: .62; }}
-  .contatti {{ position: absolute; right: 48px; bottom: 40px; text-align: right; }}
+  .contatti {{ position: absolute; right: 148px; bottom: 40px; text-align: right; }}  /* a sinistra della gamba */
   .contatti .c {{ font-size: 26px; line-height: 1.05; margin-bottom: 14px; }}
-''', f'''  <svg class="det" viewBox="{VB}" preserveAspectRatio="xMidYMid meet"><path d="{D}"/></svg>
+''', f'''  <svg class="det" viewBox="0 0 1020 660"><g transform="translate({FTX:.2f} {FTY:.2f}) scale({SC:.4f})"><path d="{FIG}"/><path d="{TESTA}"/></g></svg>
   <h1 class="claim"><span class="a" data-fit="#volto">Diamo insieme un</span><span class="volto c" id="volto">volto</span><span class="a" data-fit="#volto">alla tua attività.</span></h1>
   <ol class="servizi m">{"".join(f'<li><b>{i+1:02d}</b>{t} <i>— {x.lower()}</i></li>' for i, (t, x) in enumerate(zip(SERVIZI, DETTAGLI)))}</ol>
   <div class="contatti"><p class="c">Inquadra il fronte:<br>il logo prende vita.</p><div class="m"><p>WhatsApp +39 393 195 9752</p><p>apizzoglio@gmail.com</p></div></div>''')
